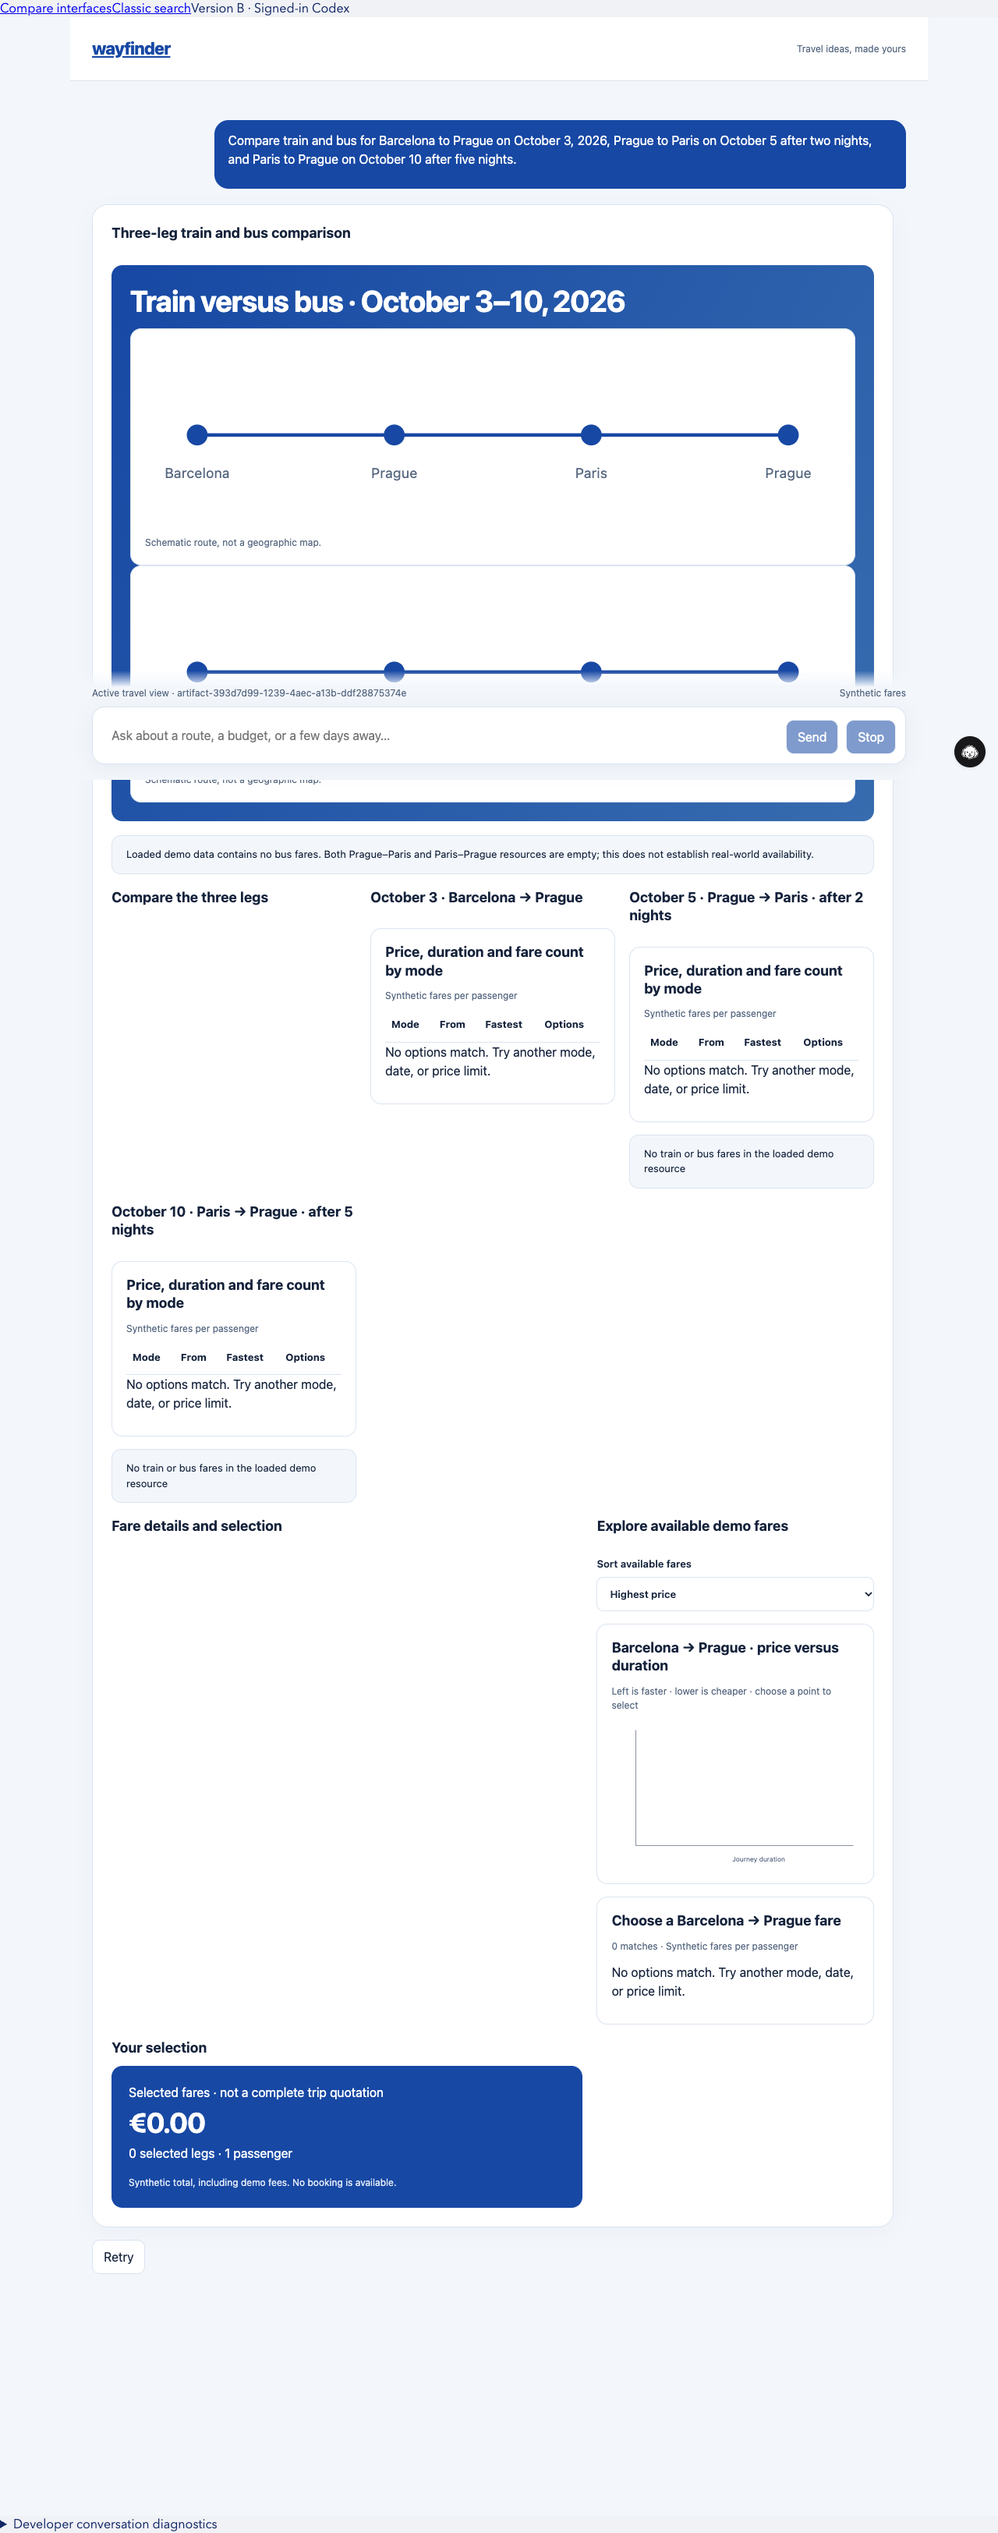
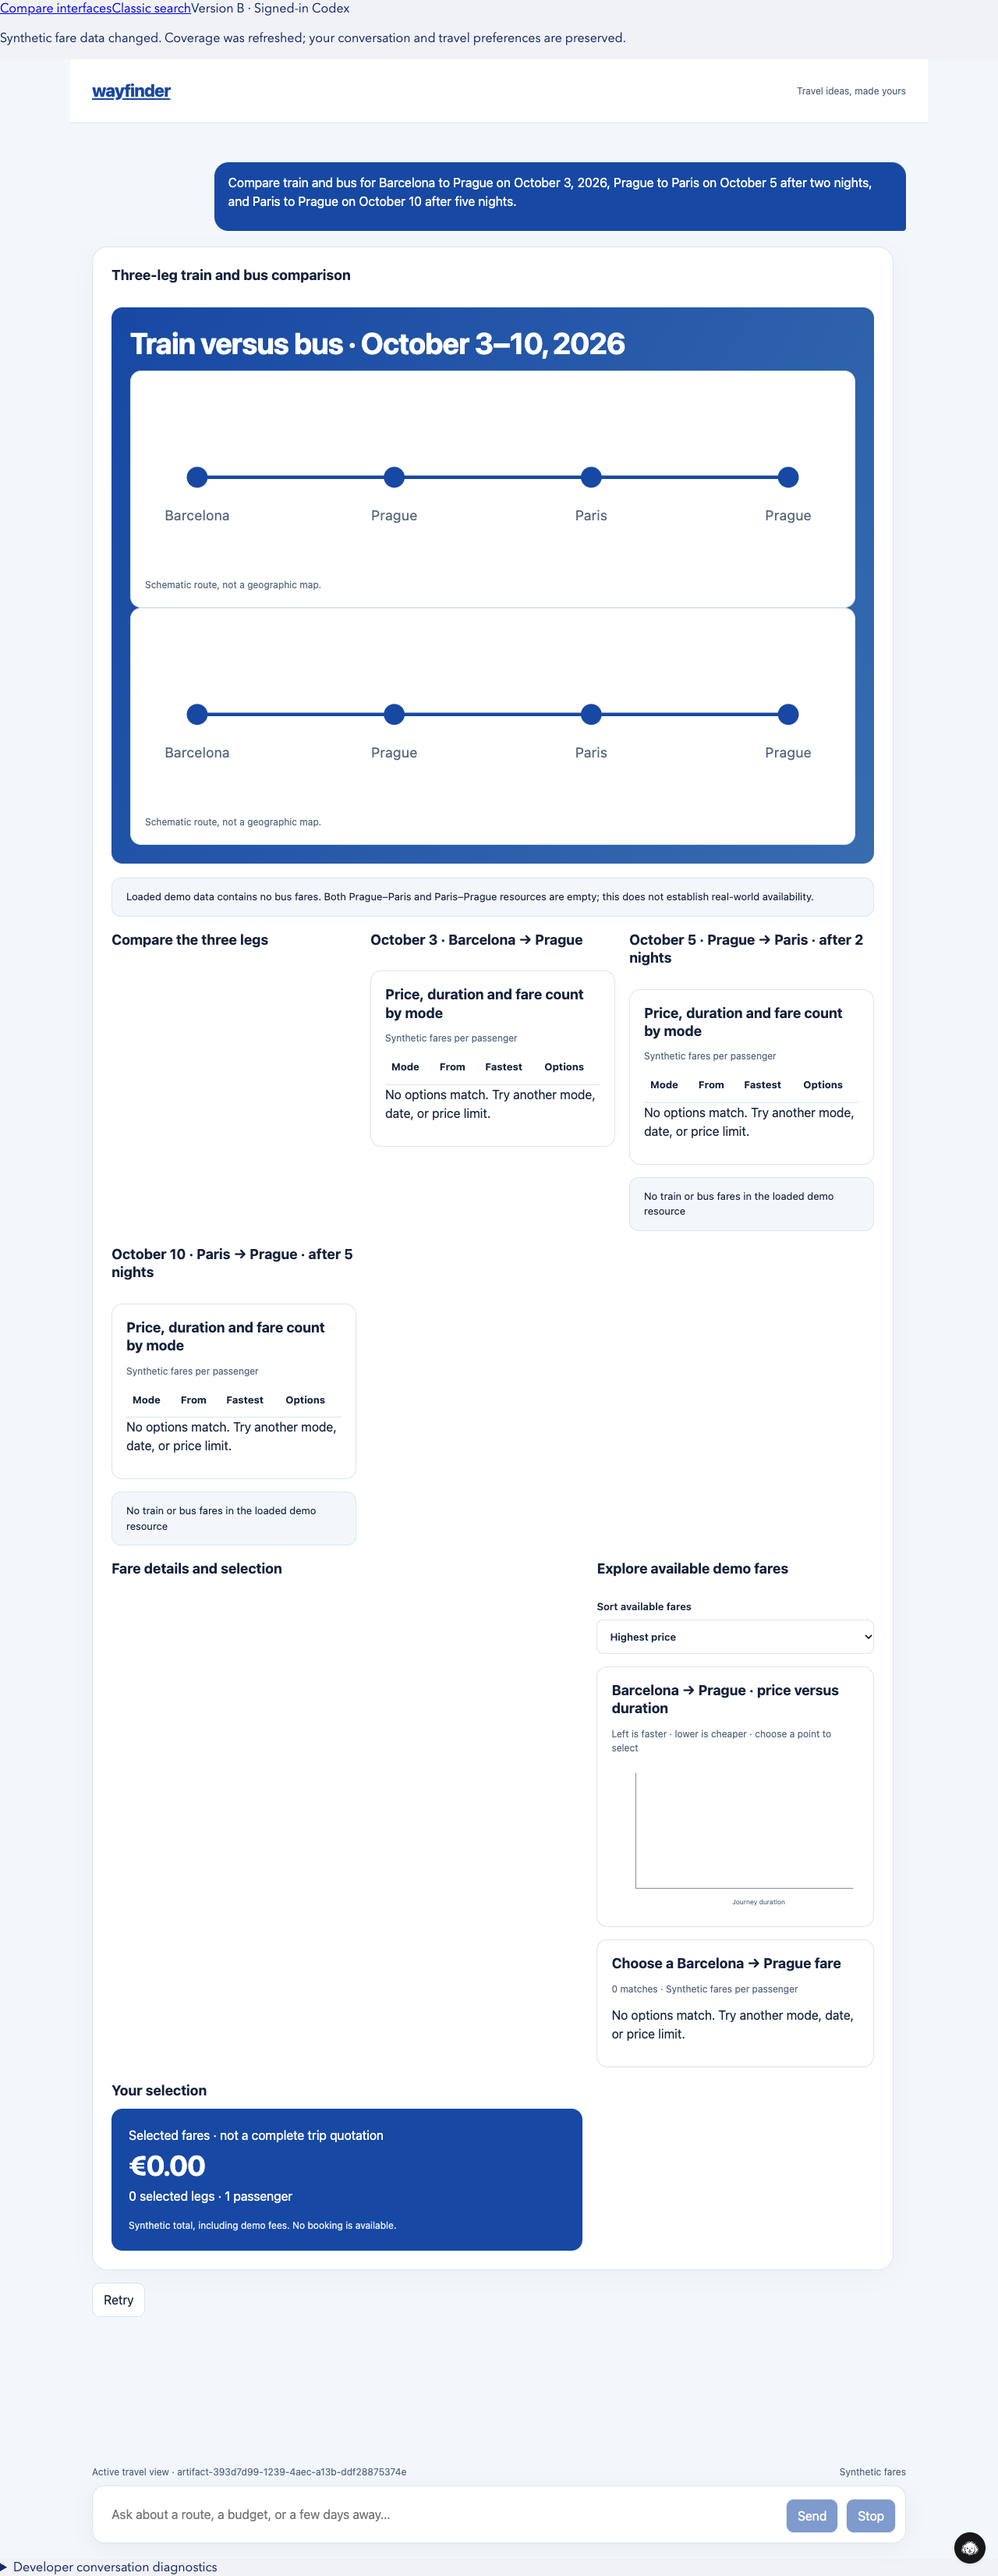
test(b): preserve legacy scene across source identity migration

diff --git a/verification/generative-ui/b/user-itinerary/README.md b/verification/generative-ui/b/user-itinerary/README.md
@@ -15,3 +15,5 @@ Run `node verification/generative-ui/b/user-itinerary/replay-and-followup.mjs` a
 The corrected-environment retry produced two valid model-authored accepted scenes, then hit the initial240-second whole-turn harness limit during the third continuation. `resume-followup.mjs` resumed that exact third HTTP body (equality asserted) without repeating completed generations. Three more accepted scenes followed, then HTTP6 failed because canonical history reached40,665 characters. `followup-diagnostic-summary.json` and five exact UTF-8 source files preserve these genuine accepted outputs. This is diagnostic evidence of a continuation completion bug, not a successful complete conversation gate. The model received its accepted tool acknowledgments.
 
 The harness now uses180-second HTTP and600-second visible-turn bounds and handles late response-body shutdown. Earlier partial/cancelled artifacts remain labeled. `resume-client.jsx` is a verification-only nativeSDK host; product routing and UI components remain the actual implementation.
+
+The legacy identity replay seeds the exact captured sqlite-demo-v1 descriptors, then restores against the authoritative v2 fixture. The original B programRevision5 remains valid with restored UIrevision6; the 5,409-character source, artifact references, descending sort, useful empty results, and terminal repair rendering are preserved. This isolated replay performs zero model requests.
